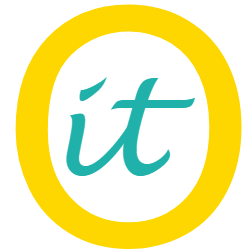
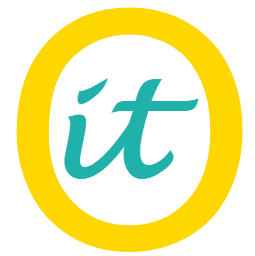
create about page and update header links

diff --git a/src/components/header/header.component.jsx b/src/components/header/header.component.jsx
@@ -5,6 +5,8 @@ import {connect} from 'react-redux'
 import SignInAndSignUp from '../sign-in-and-sign-up.component/sign-in-and-sign-up.componunt';
 
 import logo from '../../logo.png'
+import links from './links';
+
 import Modal from '../modal.component/modal.component'
 import OpenPostsIcon from '../open-posts-icon.component/open-posts-icon.component'
 import UserMenuDropdrown from '../user-menu-dropdown.component/user-menu-dropdrown.component';
@@ -25,7 +27,9 @@ class Header extends React.Component{
                 {
                     currentUser? 
                     <div className="header-main-menu">
-                        <Link className="header-main-menu-item" to='/posts/'>Posts</Link>
+                        {links.map(link=>(
+                            <Link key={link.id} className="header-main-menu-item" to={link.url}>{link.title}</Link>
+                        ))}
                         <div className="header-main-menu-item user-menu">
                             {currentUser.displayName ? currentUser.displayName:"name"}
                             <UserMenuDropdrown/>
@@ -36,6 +40,9 @@ class Header extends React.Component{
                     </div>
                     :
                     <div className="header-main-menu">
+                        {links.map(link=>(
+                            <Link key={link.id} className="header-main-menu-item" to={link.url}>{link.title}</Link>
+                        ))}
                         <Modal 
                             onClose={closeLogInModal}
                             show={logInModalIsShow}
@@ -53,7 +60,6 @@ class Header extends React.Component{
                     </div>
                 }
                 
-            <hr/>                
             </div>
             
     )}

diff --git a/src/App.js b/src/App.js
@@ -2,15 +2,15 @@ import React from 'react';
 import {Route, Switch} from 'react-router-dom';
 import {connect} from 'react-redux'
 
-import HomePage from './pages/home-page/home-page';
 import PostDetail from './pages/post-detail/post-detail';
 import Header from'./components/header/header.component';
-import Posts from './pages/posts/posts.component';
+import PostsPage from './pages/posts-page/posts-page';
 
 import {auth, createOrGetUser} from './firebase/firebase.utils';
 import {setCurrentUser} from './redux/user/user.action'
 import { setUserPosts } from './redux/user-posts/user-posts.action';
 import { firestore } from './firebase/firebase.utils';
+import AboutPage from './pages/about-page/about-page';
 
 class App extends React.Component {
 
@@ -57,8 +57,9 @@ class App extends React.Component {
       <div className="App">
         <Header/>
         <Switch>
-          <Route exact path="/" component={HomePage}/>
-          <Route exact path="/posts/" component={Posts}/>
+          <Route exact path="/" component={PostsPage}/>
+          <Route exact path="/posts/" component={PostsPage}/>
+          <Route exact path="/about/" component={AboutPage}/>
           <Route path="/posts/:postID" component={PostDetail}/>
         </Switch>
         read=> https://stackoverflow.com/questions/51116747/react-router-v4-link-vs-redirect-vs-history

diff --git a/src/pages/about-page/about-page.jsx b/src/pages/about-page/about-page.jsx
@@ -1,0 +1,36 @@
+import React from 'react'
+
+
+class AboutPage extends React.Component{
+    
+    constructor(){
+        super();
+        this.state = {
+
+        }
+    }
+
+    render(){
+        return(
+            <div className="about-page-content">
+                <div className="about-page-content-header">
+                    Looking for somthing? 
+                    <br/>
+                    Let 
+                    <span className="about-page-content-header__span"> FIND it OVERSEAS </span>
+                    hlep you!
+                </div>
+                <div className="about-page-content-introduction"> If you heard about
+                    <span className ="about-page-content-introduction-six-degrees__span"
+                    title='Six degrees of separation is the idea that all people are six, or fewer, social connections away from each other.
+                        As a result, a chain of "a friend of a friend" statements can be made to connect any two people in a maximum of six steps.'
+                    > Six Degrees of Separation</span>
+                    , you would know how we work.
+                </div>
+            </div>
+        )
+    }
+
+}
+
+export default AboutPage;

diff --git a/src/components/user-menu-dropdown.component/user-menu-dropdrown.component.jsx b/src/components/user-menu-dropdown.component/user-menu-dropdrown.component.jsx
@@ -2,20 +2,21 @@ import React from 'react'
 import {connect} from 'react-redux'
 import {Link} from 'react-router-dom'
 
-import {auth} from '../../firebase/firebase.utils'
+import links from './links';
 
+import {auth} from '../../firebase/firebase.utils'
 import { closeLogInModal } from "../../redux/log-in-modal/log-in-modal.action";
 
 
 const UserMenuDropdrown = ({closeLogInModal}) =>{
     return(
         <div className="user-menu-dropdown">
-            <div className="user-menu-dropdown-item" >
-                <Link to="/user-profile" className="user-menu-dropdown-item-link"> profile</Link>
-            </div>                            
-            <div className="user-menu-dropdown-item" >
-                <Link to="/post-history" className="user-menu-dropdown-item-link"> post history</Link>
-            </div>
+            {links.map(link=>(
+                <Link key={link.id} className="user-menu-dropdown-item user-menu-dropdown-item-link" to={link.url}>
+                    {link.title}
+                </Link>
+            ))}
+
             <div className="user-menu-dropdown-item" onClick = {() =>{
                 closeLogInModal();
                 auth.signOut();

diff --git a/src/pages/about-page/about-page.style.scss b/src/pages/about-page/about-page.style.scss
@@ -1,0 +1,42 @@
+.about-page-content{
+    text-align: center;
+    margin: $bigsize;
+
+    &-header{
+        color: $seagreen;
+        font-size: $biggersize;
+        line-height: 1.5*$biggersize;
+        &__span{
+            font-style: italic;
+            font-weight: bold;
+            font-family: arial;
+            color: $gold;
+        }
+    }
+    &-introduction{
+        font-style: italic;
+        &-six-degrees__span{
+            font-weight: bold;
+            &:hover{
+                cursor: pointer;
+            }
+        }
+    }
+    &-main-menu{
+        display: inline-flex;
+        &-item{
+            // display: inline;
+            background-color: $gold;
+            padding: $bigsize;
+            font-size: $middlesize;
+            margin: $middlesize $smallsize;
+            color: white;
+            border-radius: $minisize;
+            &:hover{
+                cursor: pointer;
+                transform: scale(1.02);
+                box-shadow: 0 $minisize $smallsize 0 rgba(0, 0, 0, 0.2), 0 $smallsize $middlesize 0 rgba(0, 0, 0, 0.19);
+            }
+        }
+    }
+}

diff --git a/src/index.scss b/src/index.scss
@@ -7,9 +7,6 @@
 @import './components/modal.component/modal.style.scss';
 @import './components/post-item.component/post-item.style.scss';
 @import './components/single-choice.component/single-choice.style.scss';
-@import './pages/home-page/home-page.style.scss';
-@import './pages/post-detail/post-detail.style.scss';
-@import './pages/posts/posts.style.scss';
 @import './components/sign-in-and-sign-up.component/sign-in-and-sign-up.style.scss';
 @import './components/form-button.component/form-button.style.scss';
 @import './components/input-text.component/input-text.style.scss';
@@ -17,6 +14,12 @@
 @import './components/open-posts-icon.component/open-posts-icon.style.scss';
 @import './components/open-posts-dropdown.component/open-posts-dropdown.style.scss';
 @import './components/user-menu-dropdown.component/user-menu-dropdown.style.scss';
+
+@import './pages/home-page/home-page.style.scss';
+@import './pages/post-detail/post-detail.style.scss';
+@import './pages/posts-page/posts-page.style.scss';
+@import './pages/about-page/about-page.style.scss';
+
 
 /* Use the variables */
 body {

diff --git a/src/pages/posts-page/posts-page.jsx b/src/pages/posts-page/posts-page.jsx
@@ -4,7 +4,7 @@ import SearchInput from '../../components/input-search.component/input-search.co
 import SingleChoice from '../../components/single-choice.component/single-choice.component';
 import PostItem from '../../components/post-item.component/post-item.component';
 
-class Posts extends React.Component {
+class PostsPage extends React.Component {
 
     constructor(props){
         super(props);
@@ -143,4 +143,4 @@ class Posts extends React.Component {
  
 }
 
-export default Posts;
+export default PostsPage;

diff --git a/public/index.html b/public/index.html
@@ -2,7 +2,7 @@
 <html lang="en">
   <head>
     <meta charset="utf-8" />
-    <link rel="shortcut icon" href="%PUBLIC_URL%/icon.png" />
+    <link rel="shortcut icon" href="%PUBLIC_URL%/icon3.png" />
     <meta name="viewport" content="width=device-width, initial-scale=1" />
     <meta name="theme-color" content="#000000" />
     <meta

diff --git a/src/components/user-menu-dropdown.component/links.js b/src/components/user-menu-dropdown.component/links.js
@@ -1,0 +1,15 @@
+const links = 
+[
+    {   
+        id:1,
+        title:"profile",
+        url:"/profile/",
+    },
+    {   
+        id:2,
+        title:"post history",
+        url:"/post-history/",
+    }
+]
+
+export default links;

diff --git a/src/components/modal.component/modal.component.jsx b/src/components/modal.component/modal.component.jsx
@@ -7,7 +7,6 @@ class Modal extends React.Component {
         // this.props.onClose && this.props.onClose(e);
         this.props.onClose();
       };
-
     render(){
         if(!this.props.show){
             return null;

diff --git a/src/components/header/links.js b/src/components/header/links.js
@@ -1,0 +1,15 @@
+const links = 
+[
+    {   
+        id:1,
+        title:"posts",
+        url:"/posts/",
+    },
+    {   
+        id:2,
+        title:"about",
+        url:"/about/",
+    }
+]
+
+export default links;
